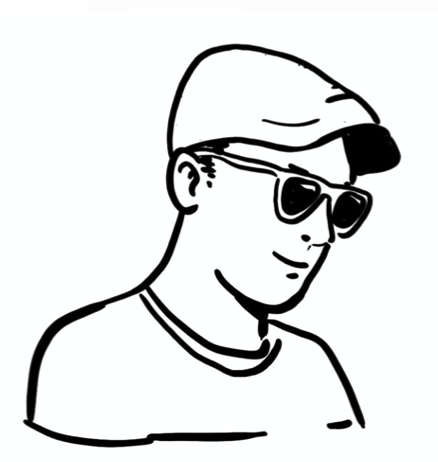
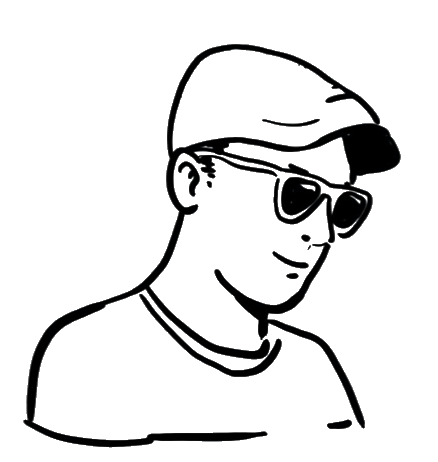
WIP

diff --git a/index.html b/index.html
@@ -16,26 +16,29 @@
 <body>
   <div class="container">
     <div class="column">
-      <h1>Copywriter and codewriter</h1>
-      <p>I'm Alex and I help brands and companies compete in the digital space.</p>
+        <h1>Copywriter and codewriter</h1>
+        <p>I'm Alex and I help brands and companies compete in the digital space.</p>
 
-      <p>Advertising, digital solutions, brand activation, promotions and brand gamification are some of the consulting services I offer.</p>
+        <p>Advertising, digital solutions, brand activation, promotions and brand gamification are some of the consulting services I offer.</p>
 
-      <p>Let's get in touch.</p>
+        <p>Let's get in touch.</p>
 
-      <div class="CTA">
-        <a class="button" href="mailto: contato@tarrask.com">Send me an email</a>
+        <div class="CTA">
+          <a class="button" href="mailto: contato@tarrask.com">Send me an email</a>
+        </div>
+
+        <div class="CTA">
+          <p><a class="external-link" href="https://www.tarrask.com/portfolio">Ad portfolio.</a></p>
+          <p><a class="external-link" href="https://github.com/letarrask">GitHub Code.</a></p>
+          <p><a class="external-link" href="http://linkedin.com/tarrask">LinkedIn profile.</a></p>
+        </div>
+
+        </div>
       </div>
-
-      <div class="CTA">
-        <a class="external-link" href="https://www.tarrask.com/portfolio">Ad portfolio.</a>
-        <a class="external-link" href="https://github.com/letarrask">GitHub Code Projects.</a>
-        <a class="external-link" href="http://linkedin.com/tarrask">LinkedIn profile.</a>
-      </div>
-      <div class="column">
-        <img src="img/alex.png"
-      </div>
+    <div class="column">
+      <img src="img/alex.png" alt="Illustration of Alex Luna by Aline Valek">
     </div>
   </div>
+
 </body>
 </html>

diff --git a/css/styles.css b/css/styles.css
@@ -1,15 +1,30 @@
+html {
+  background: url("../img/bg.jpg") no-repeat center center fixed;
+  -webkit-background-size: cover;
+  -moz-background-size: cover;
+  -o-background-size: cover;
+  background-size: cover;
+}
+
 body {
   font-family: system,-apple-system,BlinkMacSystemFont,"Helvetica Neue","Lucida Grande","Arial","Verdana","Sans-Serif";
 }
 
 .container {
-  max-width: 85%;
-  margin: auto;
+  max-width: 70%;
+  margin: 10% auto;
 }
 
-.column {
+
+div.column {
   float: left;
+  width: 45%;
+  background-color: rgba(255, 255, 255, 0.80);
+}
+
+img {
   width: 50%;
+  margin: auto;
 }
 
 h1 {
